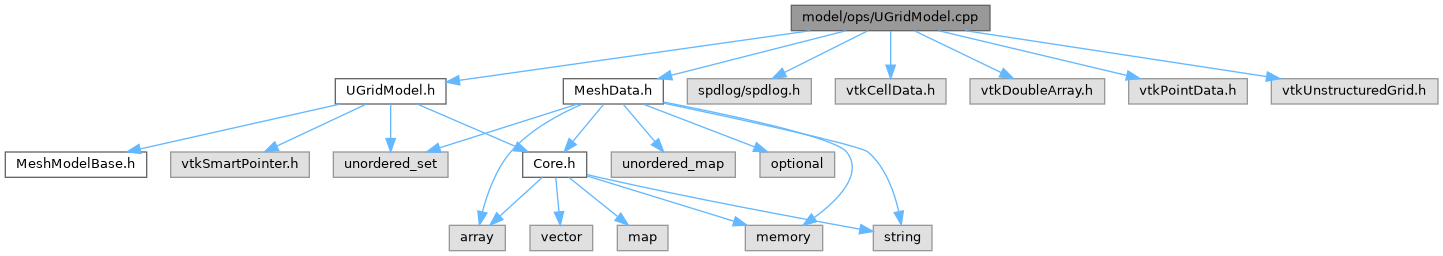
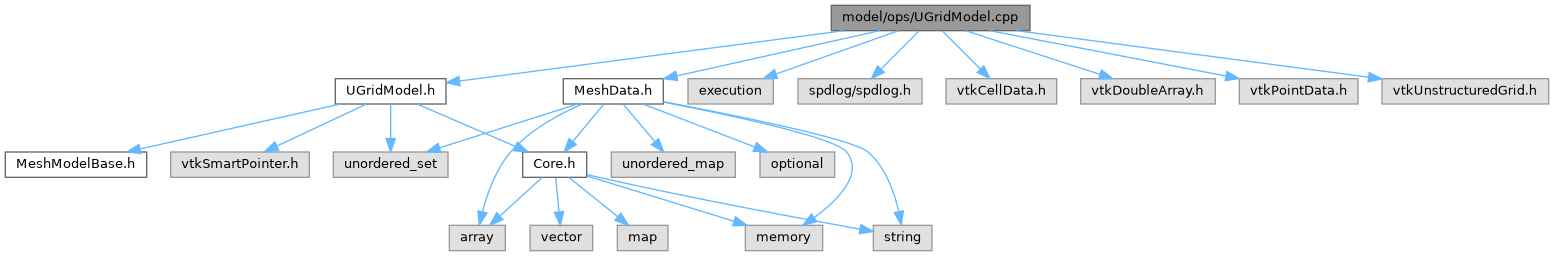
Deploying to gh-pages from @ a-ciue/PreCess@080fda4b9a8596b2e353f76b22124e4ec1cbd3a8 🚀

Changed region(s): [[0.0, 0.0, 0.9979, 1.0], [0.7796, 0.2188, 0.8108, 0.25]]

diff --git a/UGridModel_8h_source.html b/UGridModel_8h_source.html
@@ -105,10 +105,10 @@ $(function() {
 <div class="ttc" id="aCore_8h_html"><div class="ttname"><a href="Core_8h.html">Core.h</a></div></div>
 <div class="ttc" id="aMeshModelBase_8h_html"><div class="ttname"><a href="MeshModelBase_8h.html">MeshModelBase.h</a></div></div>
 <div class="ttc" id="aclassMeshModelBase_html"><div class="ttname"><a href="classMeshModelBase.html">MeshModelBase</a></div><div class="ttdoc">辅助网格数据结构，用于更新核心网格数据结构</div><div class="ttdef"><b>定义</b> MeshModelBase.h:12</div></div>
-<div class="ttc" id="aclassUGridModel_html_a3a58712607af0719b85b4dc167d99a7b"><div class="ttname"><a href="classUGridModel.html#a3a58712607af0719b85b4dc167d99a7b">UGridModel::updateFrom</a></div><div class="ttdeci">void updateFrom(const MeshData &amp;mesh_data) override</div><div class="ttdoc">从指定的 MeshData 对象更新当前对象的数据。</div><div class="ttdef"><b>定义</b> UGridModel.cpp:142</div></div>
-<div class="ttc" id="aclassUGridModel_html_a3e10611184389adf9a2e34d081603057"><div class="ttname"><a href="classUGridModel.html#a3e10611184389adf9a2e34d081603057">UGridModel::UGridModel</a></div><div class="ttdeci">UGridModel(vtkUnstructuredGrid &amp;mesh)</div><div class="ttdef"><b>定义</b> UGridModel.cpp:147</div></div>
-<div class="ttc" id="aclassUGridModel_html_a48e79d8a0c898301c8abeb2464160e3f"><div class="ttname"><a href="classUGridModel.html#a48e79d8a0c898301c8abeb2464160e3f">UGridModel::completeAttributeName</a></div><div class="ttdeci">std::string completeAttributeName(const std::string &amp;baseName, int numComponents)</div><div class="ttdoc">根据分量数自动补全属性名后缀</div><div class="ttdef"><b>定义</b> UGridModel.cpp:154</div></div>
-<div class="ttc" id="aclassUGridModel_html_a9b473812c00cdc4ee778b5cb4ec0b938"><div class="ttname"><a href="classUGridModel.html#a9b473812c00cdc4ee778b5cb4ec0b938">UGridModel::update</a></div><div class="ttdeci">void update(MeshData &amp;mesh_data) override</div><div class="ttdoc">更新MeshData</div><div class="ttdef"><b>定义</b> UGridModel.cpp:9</div></div>
+<div class="ttc" id="aclassUGridModel_html_a3a58712607af0719b85b4dc167d99a7b"><div class="ttname"><a href="classUGridModel.html#a3a58712607af0719b85b4dc167d99a7b">UGridModel::updateFrom</a></div><div class="ttdeci">void updateFrom(const MeshData &amp;mesh_data) override</div><div class="ttdoc">从指定的 MeshData 对象更新当前对象的数据。</div><div class="ttdef"><b>定义</b> UGridModel.cpp:143</div></div>
+<div class="ttc" id="aclassUGridModel_html_a3e10611184389adf9a2e34d081603057"><div class="ttname"><a href="classUGridModel.html#a3e10611184389adf9a2e34d081603057">UGridModel::UGridModel</a></div><div class="ttdeci">UGridModel(vtkUnstructuredGrid &amp;mesh)</div><div class="ttdef"><b>定义</b> UGridModel.cpp:252</div></div>
+<div class="ttc" id="aclassUGridModel_html_a48e79d8a0c898301c8abeb2464160e3f"><div class="ttname"><a href="classUGridModel.html#a48e79d8a0c898301c8abeb2464160e3f">UGridModel::completeAttributeName</a></div><div class="ttdeci">std::string completeAttributeName(const std::string &amp;baseName, int numComponents)</div><div class="ttdoc">根据分量数自动补全属性名后缀</div><div class="ttdef"><b>定义</b> UGridModel.cpp:259</div></div>
+<div class="ttc" id="aclassUGridModel_html_a9b473812c00cdc4ee778b5cb4ec0b938"><div class="ttname"><a href="classUGridModel.html#a9b473812c00cdc4ee778b5cb4ec0b938">UGridModel::update</a></div><div class="ttdeci">void update(MeshData &amp;mesh_data) override</div><div class="ttdoc">更新MeshData</div><div class="ttdef"><b>定义</b> UGridModel.cpp:10</div></div>
 <div class="ttc" id="aclassUGridModel_html_abda1f7678ff08a83d12f19e69fd0c27b"><div class="ttname"><a href="classUGridModel.html#abda1f7678ff08a83d12f19e69fd0c27b">UGridModel::mesh_</a></div><div class="ttdeci">vtkSmartPointer&lt; vtkUnstructuredGrid &gt; mesh_</div><div class="ttdef"><b>定义</b> UGridModel.h:30</div></div>
 <div class="ttc" id="aclassUGridModel_html_aeba96366937e1483eeec6504e1c418b8"><div class="ttname"><a href="classUGridModel.html#aeba96366937e1483eeec6504e1c418b8">UGridModel::~UGridModel</a></div><div class="ttdeci">~UGridModel() override</div></div>
 <div class="ttc" id="astructMeshData_html"><div class="ttname"><a href="structMeshData.html">MeshData</a></div><div class="ttdef"><b>定义</b> MeshData.h:39</div></div>

diff --git a/UGridModel_8cpp.html b/UGridModel_8cpp.html
@@ -81,6 +81,7 @@ $(function() {
 <div class="contents">
 <div class="textblock"><code>#include &quot;<a class="el" href="UGridModel_8h_source.html">UGridModel.h</a>&quot;</code><br />
 <code>#include &quot;<a class="el" href="MeshData_8h_source.html">MeshData.h</a>&quot;</code><br />
+<code>#include &lt;execution&gt;</code><br />
 <code>#include &lt;spdlog/spdlog.h&gt;</code><br />
 <code>#include &lt;vtkCellData.h&gt;</code><br />
 <code>#include &lt;vtkDoubleArray.h&gt;</code><br />
@@ -91,21 +92,23 @@ UGridModel.cpp 的引用(Include)关系图:</div>
 <div class="dyncontent">
 <div class="center"><img src="UGridModel_8cpp__incl.png" border="0" usemap="#amodel_2ops_2UGridModel_8cpp" loading="lazy" alt=""/></div>
 <map name="amodel_2ops_2UGridModel_8cpp" id="amodel_2ops_2UGridModel_8cpp">
-<area shape="rect" title=" " alt="" coords="791,5,990,31"/>
+<area shape="rect" title=" " alt="" coords="831,5,1030,31"/>
 <area shape="rect" href="UGridModel_8h.html" title=" " alt="" coords="335,79,446,104"/>
-<area shape="poly" title=" " alt="" coords="811,33,460,83,459,78,810,28"/>
+<area shape="poly" title=" " alt="" coords="844,33,460,84,459,78,844,28"/>
 <area shape="rect" href="MeshData_8h.html" title=" " alt="" coords="563,79,663,104"/>
-<area shape="poly" title=" " alt="" coords="847,33,672,78,671,73,845,28"/>
-<area shape="rect" title=" " alt="" coords="687,79,811,104"/>
-<area shape="poly" title=" " alt="" coords="869,33,786,75,783,70,867,28"/>
-<area shape="rect" title=" " alt="" coords="835,79,946,104"/>
-<area shape="poly" title=" " alt="" coords="893,31,893,65,888,65,888,31"/>
-<area shape="rect" title=" " alt="" coords="970,79,1105,104"/>
-<area shape="poly" title=" " alt="" coords="915,28,1002,70,1000,75,913,33"/>
-<area shape="rect" title=" " alt="" coords="1129,79,1247,104"/>
-<area shape="poly" title=" " alt="" coords="939,28,1127,73,1126,78,938,33"/>
-<area shape="rect" title=" " alt="" coords="1271,79,1438,104"/>
-<area shape="poly" title=" " alt="" coords="966,28,1267,74,1266,79,965,33"/>
+<area shape="poly" title=" " alt="" coords="880,33,678,78,676,73,879,28"/>
+<area shape="rect" title=" " alt="" coords="688,79,773,104"/>
+<area shape="poly" title=" " alt="" coords="899,33,777,76,776,71,898,28"/>
+<area shape="rect" title=" " alt="" coords="798,79,922,104"/>
+<area shape="poly" title=" " alt="" coords="921,33,883,71,879,67,917,29"/>
+<area shape="rect" title=" " alt="" coords="946,79,1057,104"/>
+<area shape="poly" title=" " alt="" coords="944,29,982,67,978,71,940,33"/>
+<area shape="rect" title=" " alt="" coords="1081,79,1215,104"/>
+<area shape="poly" title=" " alt="" coords="966,28,1101,72,1099,77,965,33"/>
+<area shape="rect" title=" " alt="" coords="1239,79,1358,104"/>
+<area shape="poly" title=" " alt="" coords="990,28,1226,73,1225,79,989,33"/>
+<area shape="rect" title=" " alt="" coords="1382,79,1549,104"/>
+<area shape="poly" title=" " alt="" coords="1017,28,1368,74,1368,80,1016,33"/>
 <area shape="rect" href="MeshModelBase_8h.html" title=" " alt="" coords="5,152,147,177"/>
 <area shape="poly" title=" " alt="" coords="341,107,141,152,140,146,340,101"/>
 <area shape="rect" href="Core_8h.html" title=" " alt="" coords="523,152,587,177"/>
@@ -127,7 +130,7 @@ UGridModel.cpp 的引用(Include)关系图:</div>
 <area shape="poly" title=" " alt="" coords="606,106,575,143,571,140,602,103"/>
 <area shape="poly" title=" " alt="" coords="583,106,547,126,513,154,495,183,485,213,480,211,490,180,509,150,544,121,581,102"/>
 <area shape="poly" title=" " alt="" coords="664,99,776,124,823,137,849,150,855,169,848,188,834,205,816,220,813,216,830,201,843,185,850,169,845,154,821,142,775,129,663,105"/>
-<area shape="poly" title=" " alt="" coords="664,101,790,128,869,150,882,163,891,179,901,210,896,212,886,181,877,166,867,154,789,133,663,106"/>
+<area shape="poly" title=" " alt="" coords="664,99,787,124,840,138,870,150,882,163,891,179,901,210,896,212,886,181,877,166,866,154,839,143,786,129,663,104"/>
 <area shape="poly" title=" " alt="" coords="578,107,440,150,439,145,577,101"/>
 <area shape="rect" title=" " alt="" coords="611,152,735,177"/>
 <area shape="poly" title=" " alt="" coords="625,103,657,140,653,143,621,106"/>
